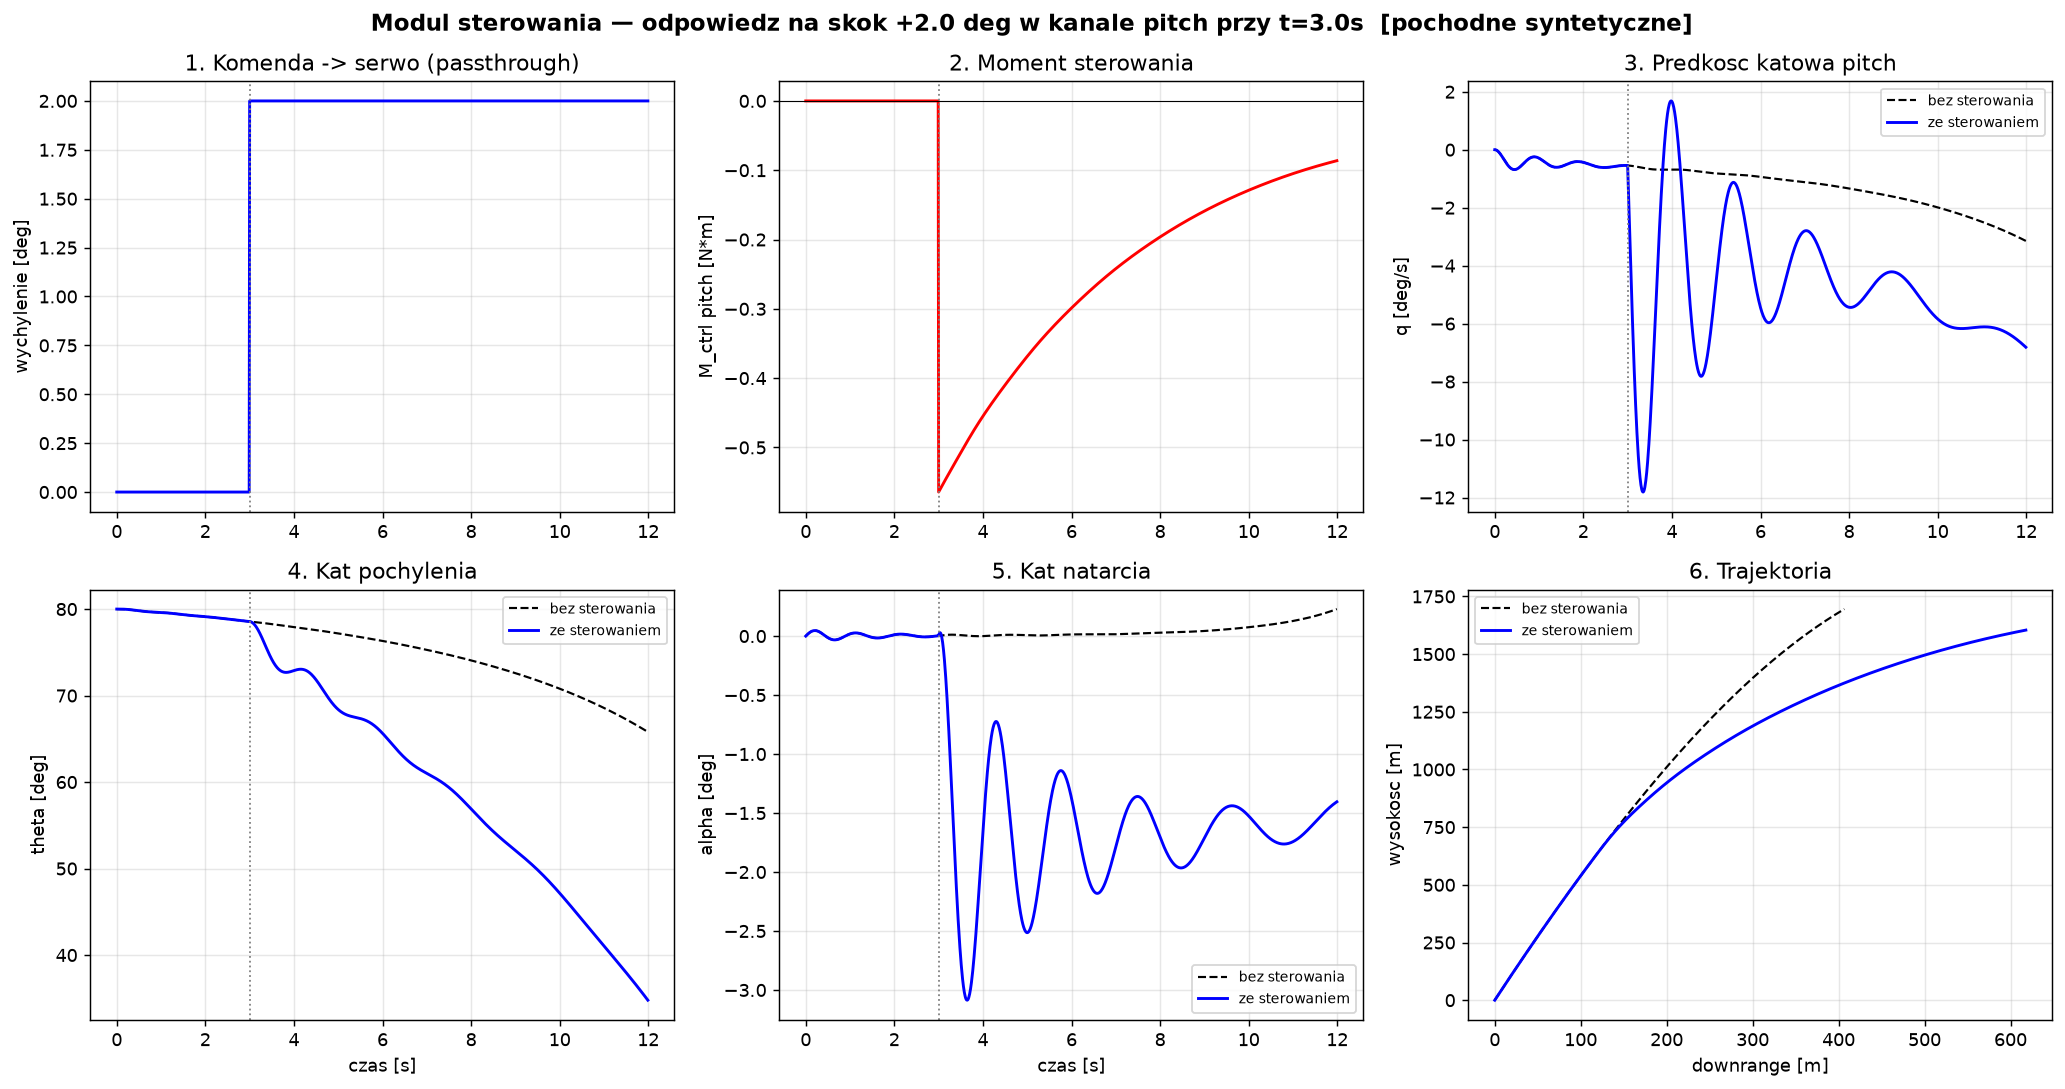
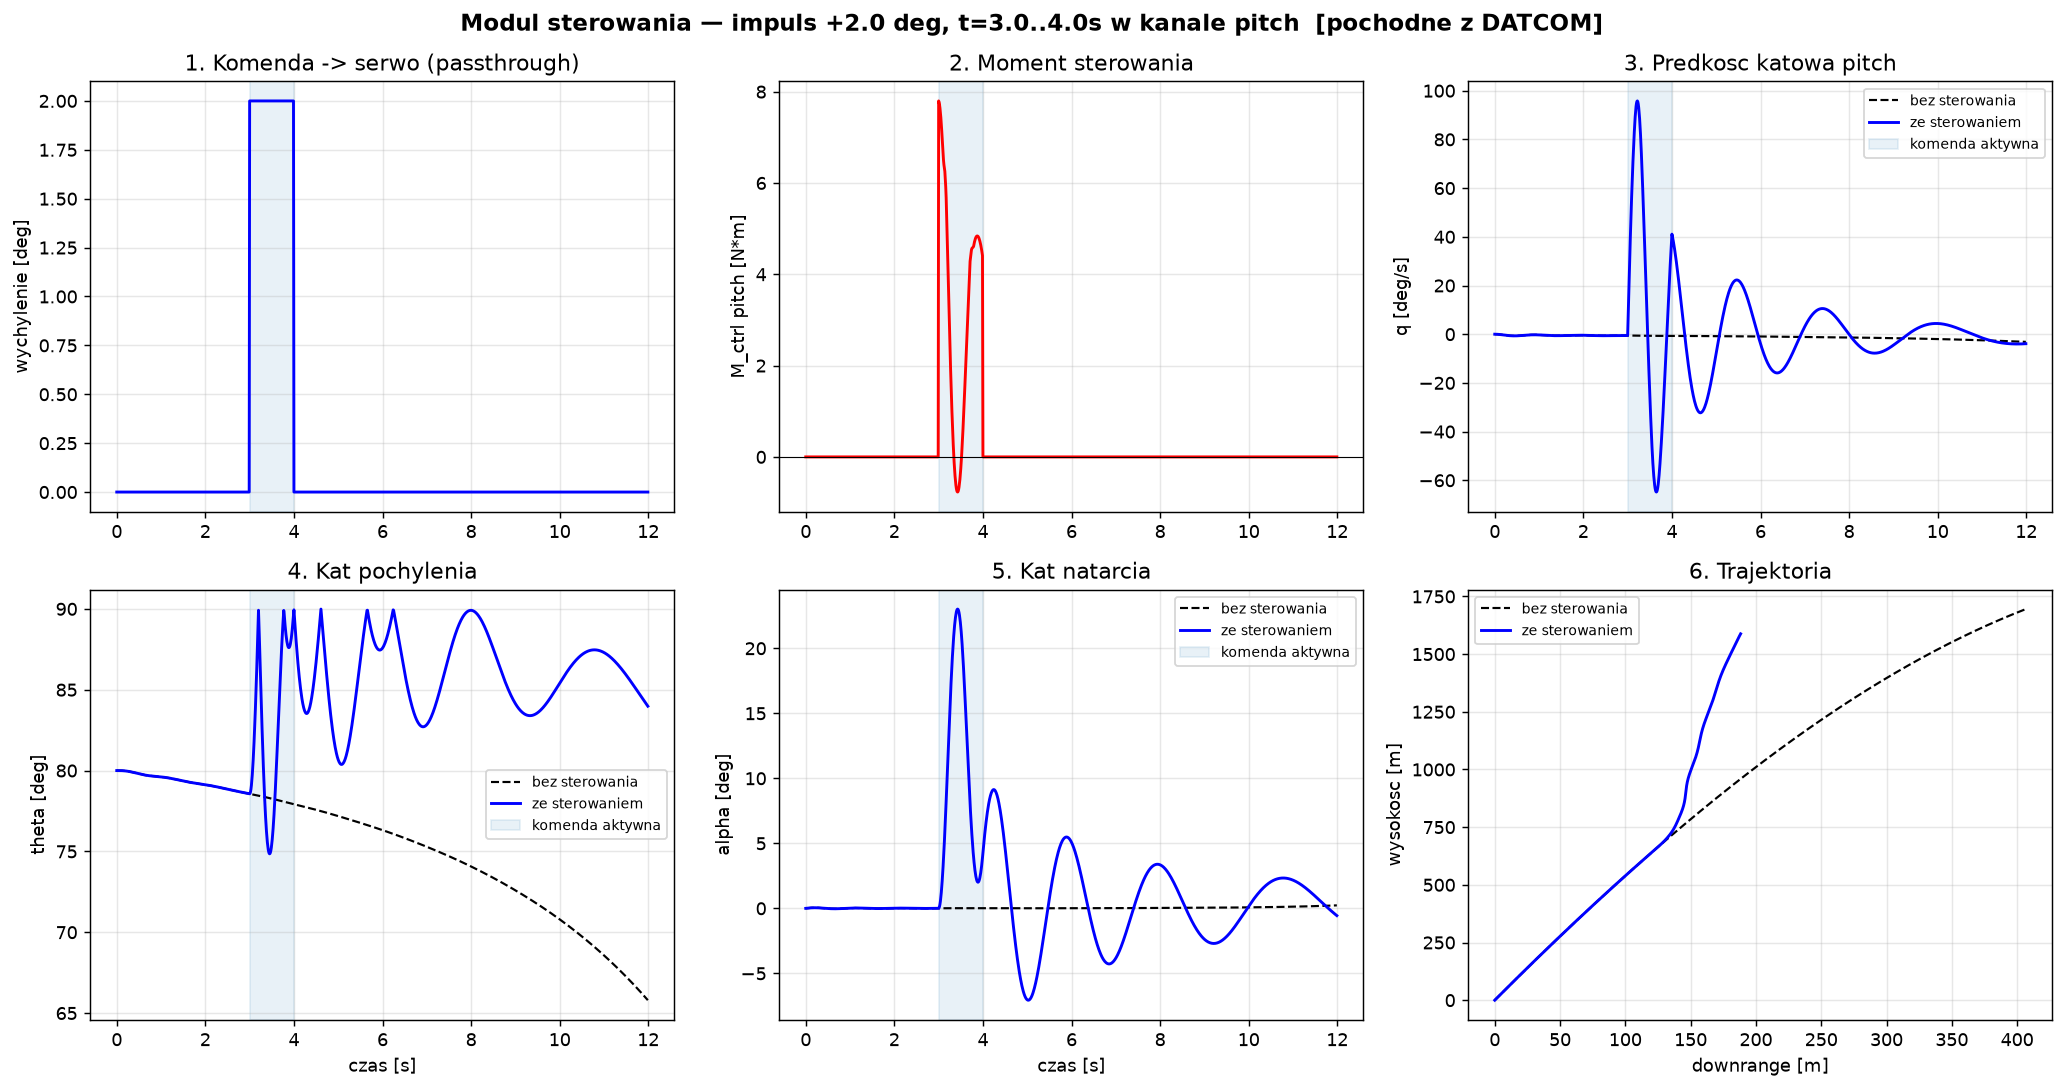
Step command becomes a 1 s pulse (3.0 -> 4.0 s) instead of a permanent step
StepCommander gains duration_s: None keeps the old permanent step (so nothing
existing changes), a value makes it a rectangular pulse active on
[t_step, t_step + duration_s). Test and demo now default to +2 deg from
3.0 to 4.0 s.

The pulse is a strictly stronger test than the step. A permanent step can only
show that control DOES something; a pulse also shows that it STOPS doing it,
and separates two things a step conflates: the moment must return to exactly
zero when the command is removed, while the attitude change it caused must
persist (attitude is the integral of the moment). Both are now asserted:
  - command back to zero after t_end
  - control moment identically zero after t_end
  - theta still displaced from the no-control run well after the pulse

test_control_step.py: 22 -> 32 checks, all passing. New checks cover the pulse
edges (0 before t_step, amplitude at t_step and mid-pulse, 0 exactly at t_end
and long after), t_end, and that omitting duration_s still yields an infinite
step.

plot_control_demo.py: --duration flag (default 1.0, 0 = permanent step); the
active-command window is shaded on every panel rather than marked with a single
line, and the title states which mode is in use.

Full suite 138/138, 1 skipped (Cl_delta, pending the roll .out).

NOTE for interpretation: with the measured DATCOM derivatives the demo
response is violent -- alpha peaks near 23 deg from only 2 deg of canard --
[…]

diff --git a/FlightSim/plot_control_demo.py b/FlightSim/plot_control_demo.py
@@ -108,10 +108,11 @@ def fly(control, t_max=12.0):
 
 
 # --------------------------------------------------------------------------
-def plot_step_response(table, amp, tstep, tag, show):
+def plot_step_response(table, amp, tstep, dur, tag, show):
     r_off = fly(None)
-    r_on = fly(ControlSystem(StepCommander(tstep, amp, "d_pitch"),
+    r_on = fly(ControlSystem(StepCommander(tstep, amp, "d_pitch", duration_s=dur),
                              PassthroughActuator(), [AeroSurfaceEffector(table)]))
+    t_end = tstep + dur if dur else float("inf")
 
     # Odtworz komende i moment wzdluz trajektorii (do wykresu).
     eff = AeroSurfaceEffector(table)
@@ -119,7 +120,7 @@ def plot_step_response(table, amp, tstep, tag, show):
     atm = create_atmosphere("ISA")
     d_cmd, m_ctrl = [], []
     for i, t in enumerate(r_on.t):
-        d = amp if t >= tstep else 0.0
+        d = amp if (tstep <= t < t_end) else 0.0
         a = atm.at(-r_on.z[i])
         spd = float(r_on.speed[i])
         fs = FlightState(t=t, alpha=float(r_on.alpha[i]), mach=a.mach(spd),
@@ -129,40 +130,49 @@ def plot_step_response(table, amp, tstep, tag, show):
     d_cmd = np.array(d_cmd); m_ctrl = np.array(m_ctrl)
 
     fig, ax = plt.subplots(2, 3, figsize=(16, 8.5))
-    fig.suptitle(f"Modul sterowania — odpowiedz na skok {amp:+.1f} deg "
-                 f"w kanale pitch przy t={tstep:.1f}s  [{tag}]",
+    win = (f"impuls {amp:+.1f} deg, t={tstep:.1f}..{t_end:.1f}s"
+           if dur else f"skok trwaly {amp:+.1f} deg od t={tstep:.1f}s")
+    fig.suptitle(f"Modul sterowania — {win} w kanale pitch  [{tag}]",
                  fontsize=13, fontweight="bold")
+
+    def mark(a):
+        """Zacieniowany czas trwania komendy — widoczny na kazdym panelu."""
+        if dur:
+            a.axvspan(tstep, t_end, color="tab:blue", alpha=0.10,
+                      label="komenda aktywna")
+        else:
+            a.axvline(tstep, color="gray", ls=":", lw=1)
 
     a = ax[0, 0]
     a.plot(r_on.t, d_cmd, "b-", lw=1.6)
-    a.axvline(tstep, color="gray", ls=":", lw=1)
+    mark(a)
     a.set_ylabel("wychylenie [deg]"); a.set_title("1. Komenda -> serwo (passthrough)")
     a.grid(alpha=0.3)
 
     a = ax[0, 1]
     a.plot(r_on.t, m_ctrl, "r-", lw=1.6)
-    a.axvline(tstep, color="gray", ls=":", lw=1); a.axhline(0, color="k", lw=0.6)
+    mark(a); a.axhline(0, color="k", lw=0.6)
     a.set_ylabel("M_ctrl pitch [N*m]"); a.set_title("2. Moment sterowania")
     a.grid(alpha=0.3)
 
     a = ax[0, 2]
     a.plot(r_off.t, np.degrees(r_off.qr), "k--", lw=1.2, label="bez sterowania")
     a.plot(r_on.t, np.degrees(r_on.qr), "b-", lw=1.6, label="ze sterowaniem")
-    a.axvline(tstep, color="gray", ls=":", lw=1)
+    mark(a)
     a.set_ylabel("q [deg/s]"); a.set_title("3. Predkosc katowa pitch")
     a.legend(fontsize=8); a.grid(alpha=0.3)
 
     a = ax[1, 0]
     a.plot(r_off.t, np.degrees(r_off.theta), "k--", lw=1.2, label="bez sterowania")
     a.plot(r_on.t, np.degrees(r_on.theta), "b-", lw=1.6, label="ze sterowaniem")
-    a.axvline(tstep, color="gray", ls=":", lw=1)
+    mark(a)
     a.set_xlabel("czas [s]"); a.set_ylabel("theta [deg]")
     a.set_title("4. Kat pochylenia"); a.legend(fontsize=8); a.grid(alpha=0.3)
 
     a = ax[1, 1]
     a.plot(r_off.t, np.degrees(r_off.alpha), "k--", lw=1.2, label="bez sterowania")
     a.plot(r_on.t, np.degrees(r_on.alpha), "b-", lw=1.6, label="ze sterowaniem")
-    a.axvline(tstep, color="gray", ls=":", lw=1)
+    mark(a)
     a.set_xlabel("czas [s]"); a.set_ylabel("alpha [deg]")
     a.set_title("5. Kat natarcia"); a.legend(fontsize=8); a.grid(alpha=0.3)
 
@@ -272,7 +282,9 @@ def main():
     ap = argparse.ArgumentParser(description=__doc__,
                                  formatter_class=argparse.RawDescriptionHelpFormatter)
     ap.add_argument("--amp", type=float, default=2.0, help="amplituda skoku [deg]")
-    ap.add_argument("--tstep", type=float, default=3.0, help="czas skoku [s]")
+    ap.add_argument("--tstep", type=float, default=3.0, help="poczatek komendy [s]")
+    ap.add_argument("--duration", type=float, default=1.0,
+                    help="czas trwania komendy [s]; 0 = skok trwaly")
     ap.add_argument("--show", action="store_true", help="pokaz okna zamiast zapisu")
     args = ap.parse_args()
 
@@ -294,8 +306,9 @@ def main():
         table = synthetic_table()
         tag = "pochodne syntetyczne"
 
-    print("\n1. Odpowiedz skokowa")
-    plot_step_response(table, args.amp, args.tstep, tag, args.show)
+    print("\n1. Odpowiedz na impuls sterowania")
+    dur = args.duration if args.duration > 0 else None
+    plot_step_response(table, args.amp, args.tstep, dur, tag, args.show)
 
     print("\n2. Pochodne sterowania")
     if have_datcom:

diff --git a/FlightSim/tests/test_control_step.py b/FlightSim/tests/test_control_step.py
@@ -108,6 +108,18 @@ sc = StepCommander(t_step=3.0, amplitude_deg=2.0, channel="d_pitch")
 check("StepCommander: 0 przed skokiem", np.allclose(sc.command(fs0).u, 0.0))
 check("StepCommander: amplituda po skoku", sc.command(fs5).get("d_pitch") == 2.0)
 
+# Impuls 1 s: komenda tylko w [3, 4) s.
+pc = StepCommander(t_step=3.0, amplitude_deg=2.0, channel="d_pitch",
+                   duration_s=1.0)
+g = lambda t: pc.command(FlightState(t=t, q_dyn=1.0e4, mach=0.5, speed=200.0)).get("d_pitch")
+check("impuls: 0 przed t_step", g(2.99) == 0.0)
+check("impuls: amplituda na poczatku", g(3.0) == 2.0)
+check("impuls: amplituda w srodku", g(3.5) == 2.0)
+check("impuls: 0 dokladnie na koncu", g(4.0) == 0.0)
+check("impuls: 0 dlugo po", g(9.0) == 0.0)
+check("impuls: t_end poprawny", pc.t_end == 4.0)
+check("bez duration_s dalej skok trwaly", sc.t_end == float("inf"))
+
 act = PassthroughActuator()
 cmd = sc.command(fs5)
 check("PassthroughActuator: wyjscie == zadanie",
@@ -159,7 +171,7 @@ print("\n3. Neutralnosc: control=None / zerowa komenda")
 r_none = fly(None)
 r_zero = fly(ControlSystem(ZeroCommander(), PassthroughActuator(),
                            [AeroSurfaceEffector(synthetic_table())]))
-r_amp0 = fly(ControlSystem(StepCommander(3.0, 0.0, "d_pitch"),
+r_amp0 = fly(ControlSystem(StepCommander(3.0, 0.0, "d_pitch", duration_s=1.0),
                            PassthroughActuator(),
                            [AeroSurfaceEffector(synthetic_table())]))
 check("control=None vs ZeroCommander: identyczne",
@@ -169,30 +181,45 @@ check("control=None vs amplituda 0: identyczne",
 check("ControlSystem bez efektorow: zerowy wrench",
       np.allclose(ControlSystem(sc, act, []).compute(fs5).M, 0.0))
 
-# --- 4. Test skokowy end-to-end ------------------------------------------
-print("\n4. Skok +2 deg w pitch przy t=3 s")
-r_step = fly(ControlSystem(StepCommander(3.0, +2.0, "d_pitch"),
+# --- 4. Impuls end-to-end: +2 deg od t=3 s przez 1 s ---------------------
+print("\n4. Impuls +2 deg w pitch, t=3..4 s")
+r_step = fly(ControlSystem(StepCommander(3.0, +2.0, "d_pitch", duration_s=1.0),
                            PassthroughActuator(),
                            [AeroSurfaceEffector(synthetic_table(Cm_d=+1.0))]))
 pre = r_step.t < 2.9
-post = r_step.t > 3.1
-check("przed skokiem: trajektoria == bez sterowania",
+during = (r_step.t > 3.1) & (r_step.t < 3.9)
+after = r_step.t > 4.5
+check("przed impulsem: trajektoria == bez sterowania",
       np.allclose(r_step.theta[pre], r_none.theta[pre], atol=1e-9))
 d_theta = np.degrees(r_step.theta[-1] - r_none.theta[-1])
-check("po skoku: theta odchylona od przypadku bez sterowania",
+check("po impulsie: theta trwale odchylona od przypadku bez sterowania",
       abs(d_theta) > 0.5, f"(dtheta={d_theta:.3f} deg)")
-check("po skoku: znak zgodny z +Cm_delta (nos w gore)", d_theta > 0.0,
+check("po impulsie: znak zgodny z +Cm_delta (nos w gore)", d_theta > 0.0,
       f"(dtheta={d_theta:.3f} deg)")
 q_pre = float(np.max(np.abs(r_step.qr[pre])))
-q_post = float(np.max(np.abs(r_step.qr[post])))
-check("po skoku: predkosc katowa pitch rosnie",
-      q_post > q_pre, f"(|q| {q_pre:.4g} -> {q_post:.4g} rad/s)")
+q_dur = float(np.max(np.abs(r_step.qr[during])))
+check("w trakcie impulsu: predkosc katowa pitch rosnie",
+      q_dur > q_pre, f"(|q| {q_pre:.4g} -> {q_dur:.4g} rad/s)")
+
+# Sedno testu impulsowego: po zdjeciu komendy moment znika, ale wywolana
+# zmiana orientacji zostaje (jest calka momentu). Trwaly skok nie odroznilby
+# tych dwoch rzeczy.
+eff_chk = AeroSurfaceEffector(synthetic_table(Cm_d=+1.0))
+cmd_chk = StepCommander(3.0, +2.0, "d_pitch", duration_s=1.0)
+fs_after = FlightState(t=5.0, q_dyn=1.0e4, mach=0.5, speed=200.0)
+u_after = cmd_chk.command(fs_after).u
+check("po impulsie: komenda wraca do zera", np.allclose(u_after, 0.0))
+check("po impulsie: moment sterowania zeruje sie",
+      abs(eff_chk.wrench(u_after, fs_after).My) < 1e-12)
+check("po impulsie: theta NIE wraca do przypadku bez sterowania "
+      "(zmiana orientacji jest trwala)",
+      abs(np.degrees(r_step.theta[after][-1] - r_none.theta[after][-1])) > 0.5)
 check("symulacja zakonczona poprawnie", r_step.status == "ok",
       f"(status={r_step.status})")
 
 # --- 5. Odwrocony znak pochodnej -> odwrocona reakcja ---------------------
 print("\n5. Kontrola: odwrocenie znaku Cm_delta odwraca reakcje")
-r_neg = fly(ControlSystem(StepCommander(3.0, +2.0, "d_pitch"),
+r_neg = fly(ControlSystem(StepCommander(3.0, +2.0, "d_pitch", duration_s=1.0),
                           PassthroughActuator(),
                           [AeroSurfaceEffector(synthetic_table(Cm_d=-1.0))]))
 d_theta_neg = np.degrees(r_neg.theta[-1] - r_none.theta[-1])

diff --git a/FlightSim/control/commander.py b/FlightSim/control/commander.py
@@ -50,28 +50,46 @@ class ZeroCommander(Commander):
 
 class StepCommander(Commander):
     """
-    Komenda skokowa — narzedzie testowe do sprawdzenia calego lancucha.
+    Komenda skokowa lub IMPULSOWA — narzedzie testowe do sprawdzenia lancucha.
 
-    Przed t_step: 0. Po t_step: amplitude_deg na wybranym kanale.
+    duration_s = None  -> skok trwaly:  0 przed t_step, amplitude_deg po nim.
+    duration_s = T     -> impuls prostokatny: amplitude_deg tylko w przedziale
+                          [t_step, t_step + T), potem powrot do 0.
 
-    Uwaga numeryczna: skok to nieciaglosc f(t); RK45 przejdzie przez nia
-    skracajac krok (kontrola bledu to zalatwia). Nie dodajemy obslugi zdarzen
-    w v1 — wystarczy wiedziec o tym przy czytaniu logow.
+    Impuls jest mocniejszym testem niz trwaly skok: sprawdza nie tylko, ze
+    sterowanie DZIALA, ale i ze przestaje dzialac po zdjeciu komendy —
+    moment wraca do zera, a wywolana zmiana orientacji zostaje (bo jest
+    calka momentu). Trwaly skok nie odroznilby tych dwoch rzeczy.
+
+    Uwaga numeryczna: kazde zbocze to nieciaglosc f(t); RK45 przechodzi przez
+    nia skracajac krok (kontrola bledu to zalatwia). Impuls ma dwa zbocza,
+    wiec dwa takie miejsca. Nie dodajemy obslugi zdarzen w v1 — wystarczy
+    wiedziec o tym przy czytaniu logow.
     """
 
     def __init__(self, t_step: float = 3.0, amplitude_deg: float = 2.0,
                  channel: str = "d_pitch",
-                 channels: Tuple[str, ...] = DEFAULT_CHANNELS):
+                 channels: Tuple[str, ...] = DEFAULT_CHANNELS,
+                 duration_s: Optional[float] = None):
         if channel not in channels:
             raise ValueError(f"kanal {channel!r} spoza {channels}")
+        if duration_s is not None and duration_s <= 0.0:
+            raise ValueError("duration_s musi byc > 0 albo None (skok trwaly)")
         self.t_step = float(t_step)
         self.amplitude_deg = float(amplitude_deg)
         self.channel = channel
         self.channels = channels
+        self.duration_s = None if duration_s is None else float(duration_s)
+
+    @property
+    def t_end(self) -> float:
+        """Koniec impulsu (inf dla skoku trwalego)."""
+        return (float("inf") if self.duration_s is None
+                else self.t_step + self.duration_s)
 
     def command(self, fs: FlightState) -> ControlCommand:
         u = np.zeros(len(self.channels))
-        if fs.t >= self.t_step:
+        if self.t_step <= fs.t < self.t_end:
             u[self.channels.index(self.channel)] = self.amplitude_deg
         return ControlCommand(t=fs.t, u=u, channels=self.channels)
 
